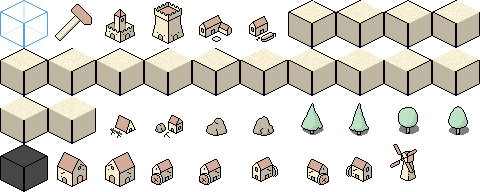
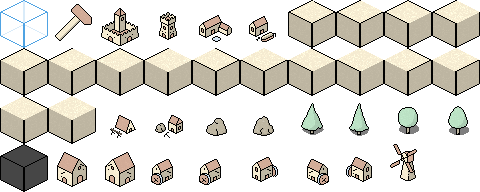
Add tower as low range military/build radius building (#88)
* add tower JSON and sprite
* make tower smaller and castle larger
* tweak castle sprite
* use three columns for buttons

Changed region(s): [[0.1875, 0.0, 0.4062, 0.25]]

diff --git a/game/res/ui.go b/game/res/ui.go
@@ -193,7 +193,7 @@ func (ui *UI) createUI() *widget.Container {
 		widget.ContainerOpts.BackgroundImage(image.NewNineSliceColor(color.NRGBA{40, 40, 40, 255})),
 		widget.ContainerOpts.Layout(
 			widget.NewGridLayout(
-				widget.GridLayoutOpts.Columns(2),
+				widget.GridLayoutOpts.Columns(3),
 				widget.GridLayoutOpts.Padding(widget.NewInsetsSimple(4)),
 				widget.GridLayoutOpts.Spacing(4, 4),
 			),
@@ -225,7 +225,7 @@ func (ui *UI) createUI() *widget.Container {
 		widget.ContainerOpts.BackgroundImage(image.NewNineSliceColor(color.NRGBA{40, 40, 40, 255})),
 		widget.ContainerOpts.Layout(
 			widget.NewGridLayout(
-				widget.GridLayoutOpts.Columns(2),
+				widget.GridLayoutOpts.Columns(3),
 				widget.GridLayoutOpts.Padding(widget.NewInsetsSimple(4)),
 				widget.GridLayoutOpts.Spacing(4, 4),
 			),
